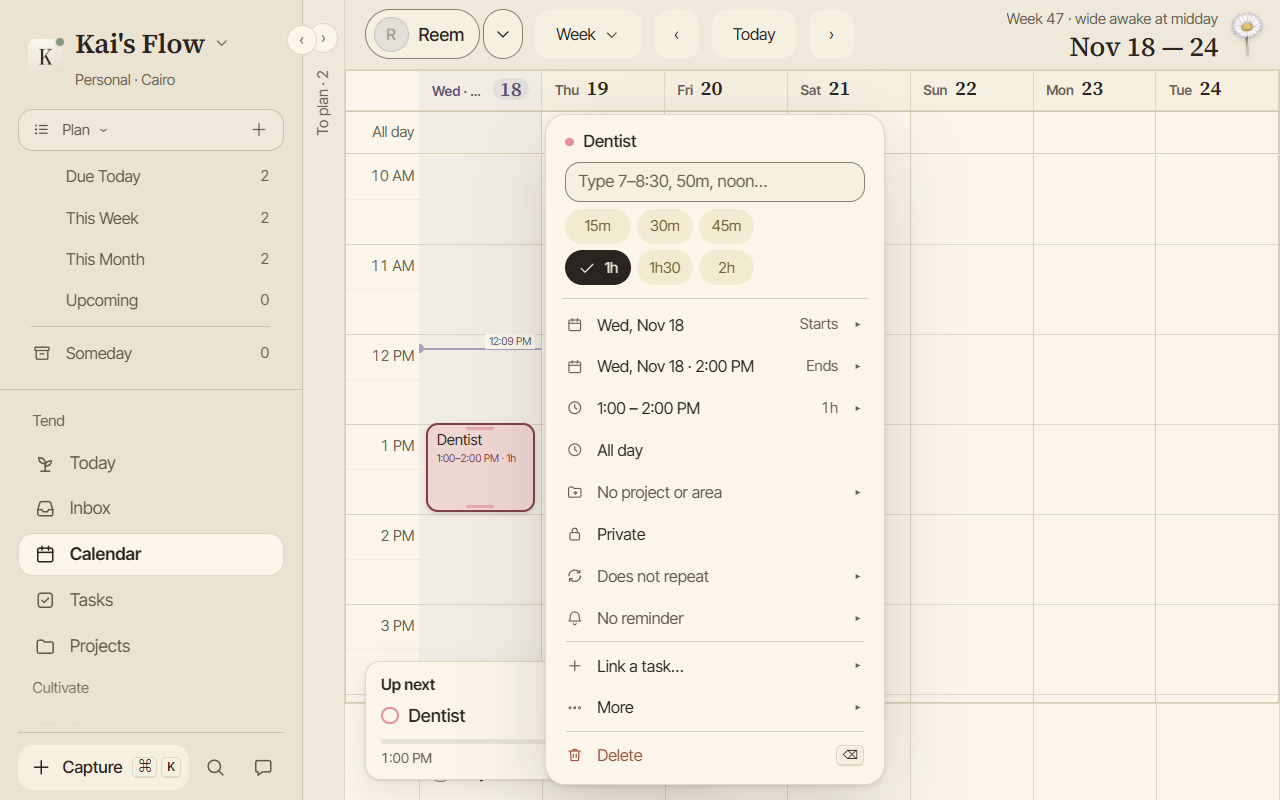
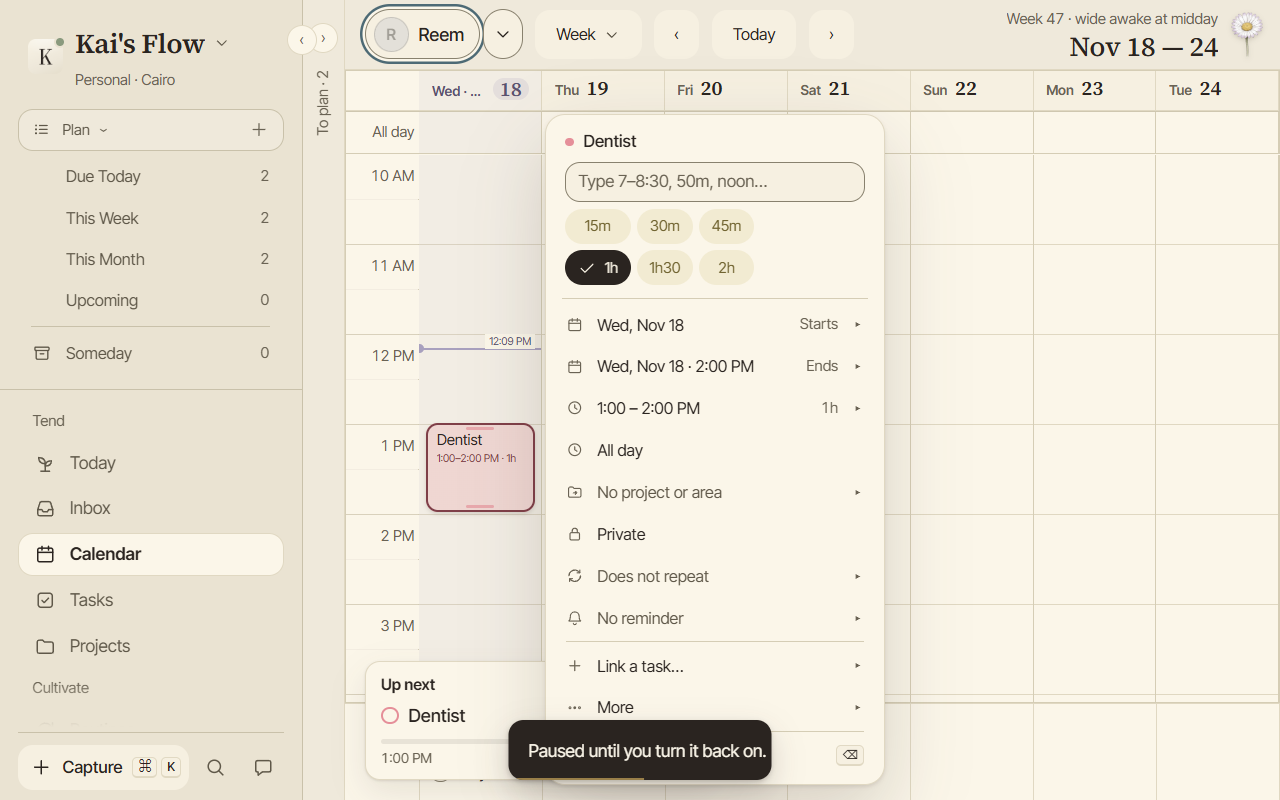
test(sharing): member-row writes use return=minimal like the app; harness screenshots, handoff

Changed region(s): [[0.375, 0.875, 0.625, 1.0], [0.2812, 0.0625, 0.375, 0.0938], [0.2812, 0.0, 0.375, 0.0312]]

diff --git a/docs/log/2026-11-18-0300-v165-sharing-tweaks-handoff.md b/docs/log/2026-11-18-0300-v165-sharing-tweaks-handoff.md
@@ -1,0 +1,32 @@
+# v1.6.5 sharing tweaks: two switches, her colour, pause with no end (branch claude/v165-sharing-tweaks, from claude/kai-bugs-1012)
+
+Kai's three changes to P1, decided 2026-11-18, plus the colour reaching both her-day widgets. Not merged, not released. Migration **0105** (0101-0103 are held by the other P2 builders; 0104 merged). Merged `origin/claude/kai-bugs-1012` in with `-X ignore-cr-at-eol` (brings in the 0104 widgets).
+
+## What changed
+1. **Two switches.** "Show her lane on my calendar" (`circle_members.show_lane`, as before) and "Show her day on Today" (new `show_day`). Each decides only its own surface: the lane chip and `useLanes` read `show_lane`; `HerDayCards` reads `show_day` (P1's "a Partner always shows the card" is gone). Defaults at connection time: both on for Partner, both off for Family/Friend (`share_invite_accept`). Per connection, per viewer, on the viewer's own member row; neither touches what `shared_day` returns. Backfill keeps what P1 drew.
+2. **Her colour.** `circle_members.color`, default Heather `#8972B3`, check = one of palette C's 16 day hexes. Picker on the person's page (`PlaceSwatches`, the 16 swatches). Drawn through the swatch's own tokens as `--her` / `--her-ink` (`herVars`): her lane (desktop FullCalendar background events via `eventDidMount`, phone `.pc-lane`), her card, the avatar everywhere. No new colour tokens (`HER_COLOR` is read from `BLOCK_SWATCHES`).
+3. **Pause has no automatic end.** "Pause until I turn it back on" (`paused_until = 'infinity'`, already supported by the server) is first; "Pause for an hour" is the secondary timed one; "For today" is gone. Offered in Settings (person page), her card's menu, and the lane's menu (now one tap each, no detour to the person page; it says Resume while paused). New toast "Paused until you turn it back on."
+4. **Widgets (coordinator's addition).** `share_widget_read` (0104) is replaced in 0105 to return the colour the key's HOLDER gave that person. `share-widget` feed: `color` (swatch name) on the feed and on every block, and on the paused answer. Android: snapshot `partner.color`; `HerDay.java` uses per-swatch drawables `kfw_blk_her_<swatch>` (dashed edge) and `kfw_circle_her_<swatch>` generated by `docs/log/assets/widgets-build/palette.mjs` (the old hand-made Heather pair removed; the initial is now the swatch tint with its ink, as the app's avatar, so a light swatch stays readable). Rainmeter `herday.lua`: 16-row swatch table (day and night, from the tokens) replacing the Heather constant; `.rmskin` 1.2 rebuilt (unreleased, same version).
+
+## Copy
+Privacy 5a (`site/src/pages/info.mjs`, `app/public/privacy.html` regenerated): "pause for an hour or a day" is now "until you turn it back on, or for an hour", and "what we keep" names the two view switches and the private colour. Help has no sharing article and the release notes never said "for today"; nothing else to change. DATA_MODEL has the 0105 note.
+
+## Checks
+- Gate (`kais-flow-v164/tools/gate.ps1`): vitest x4 time zones 3056/3056 each, lint 0, build ok, ds:check 0 new (one HER_COLOR literal fixed on the way).
+- deno check: share-widget, share-view, notify, mcp, chat, widget, calendar-feed all clean.
+- Rehearsal: see the line at the end of this file (run id and result).
+- Harness `docs/log/assets/v166-sharing/verify.mjs` updated (port 5278): the two switches each write only their own column and each drive only their own surface (calendar lane vs Today card, desktop and phone, Family with one on), pause chips (infinity, hour, never "today") on the person page, the card and the lane menu, a no-end pause reads "Until turned back on", the 16 swatches write `color` only, and the lane / card / avatar / phone bar draw in the picked colour. Result line at the end.
+- Skin: `FENGARI=... node desktop/rainmeter/tools/check-herday.mjs` 54/54 (4 new: Rose by day, Rose at night, unknown name = Heather, a pause keeps the colour), `check.mjs` 145/145, `read-rmskin.mjs` 15/15.
+- vitest additions: model (defaults, colour, pause kinds, toast), herFeed (colour on feed and blocks, the 16 names equal `BLOCK_SWATCHES`), partnerSnapshot (swatch name).
+
+## sharing.sh / share-widget.sh (Rehearsal)
+New sections in `supabase/tests/sharing.sh`: *pause with no end* (infinity pauses both ways, reads "infinity", stays paused after a pause, no pings, either side resumes, both sides see each other again, an hour still ends) and *two switches and her colour are the viewer's own* (each switch moves alone, neither changes `shared_day`, A's untouched by B's, a pick is per viewer and unreadable by the other side, A and C can't write B's row, a non-palette colour refused, no pings). Defaults are asserted for Partner, Family and Friend. `share-widget.sh`: the key reads its holder's pick, not the other person's.
+
+## Decisions / for Kai
+1. Widget fallback when nobody is a Partner: the phone widget now picks the first person whose **Today card** is on (was: lane on), since "her day" is what it shows. A Partner is still first.
+2. The phone widget's round initial changed from solid Heather with light text to the swatch tint with its ink (readable for every one of the 16). Look at it once installed.
+3. Pair-only colour: for a future group circle the colour is per circle, not per person (groups are P3).
+
+## Not verified here
+- Android drawing (no device): per-swatch drawables are generated; `HerDayPlanTest` is unchanged. The android.yml build will compile it.
+- Rainmeter on a real desktop (checked in fengari only, as before).
